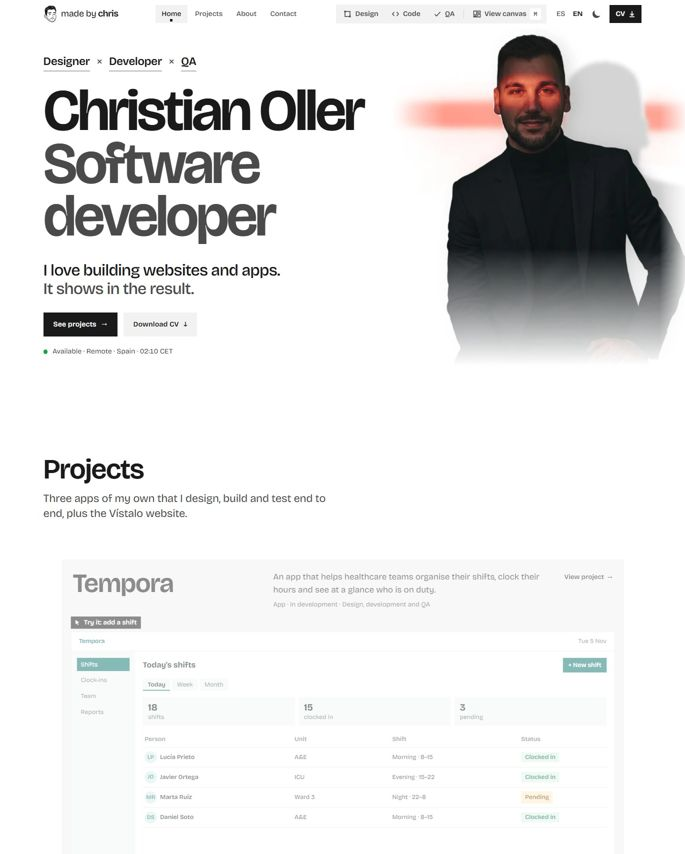
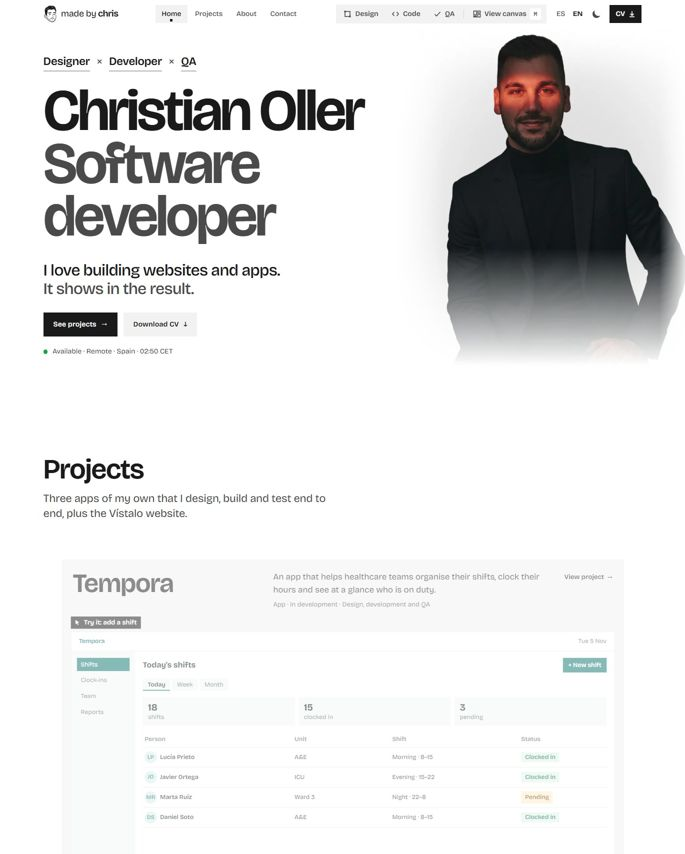
feat: light hero photo on soft gray, without wall stripe or shadow

diff --git a/docs/referencias/roadmap-prototipo-def.md b/docs/referencias/roadmap-prototipo-def.md
@@ -23,7 +23,7 @@
 | E3 · Momentos firma | Hecho (19 nov) |
 | E4 · Páginas | Hecho (19 nov). Los casos esperan tu contenido real |
 | **E5 · Móvil y pulido** | **Hecho** (19 nov), a falta de tu visto bueno a la rúbrica |
-| **Ajustes de diseño** | **En curso** (20 nov): hero y barra hechos, a falta de tu visto bueno |
+| **Ajustes de diseño** | **En curso** (20 nov): hero y barra aprobados; la foto clara sobre gris, hecha y a falta de tu visto bueno |
 | Fase técnica | Pendiente |
 | Lanzamiento | Pendiente |
 
@@ -196,8 +196,8 @@ trayectoria ha vuelto y no quedan ni la letra a mano ni el azul.
         claro sobre la chaqueta). "Christian Oller" va en tinta normal, porque pasa por la luz
         roja y la diferencia lo teñía de azul. En móvil las dos líneas caen sobre la chaqueta y
         van las dos en diferencia.
-      - Cómo se genera `card-light.jpg` (hay que repetirlo si cambia la foto), en
-        `.taste-skill/recorte/`:
+      - Cómo se generaba `card-light.jpg` hasta el 20 nov (desde D24 se hace con `luz-gris.cjs`,
+        ver "Ajustes de diseño"), en `.taste-skill/recorte/`:
         1. `person.swift` saca la máscara de la persona con la segmentación de macOS.
         2. `luz.cjs` pone la pared en blanco, conserva la franja roja (el exceso de rojo sobre
            la pared), redibuja la sombra con la propia silueta (en la foto es solo un 5 % más
@@ -664,7 +664,7 @@ trayectoria ha vuelto y no quedan ni la letra a mano ni el azul.
 El 20 nov, en vez de cerrar el diseño, Christian pidió cambios, empezando por la home. Se trabajan
 igual: un punto por parada y la casilla se marca con su visto bueno.
 
-- [ ] **Hero sin texto encima de la foto** (D22; hecho el 20 nov, pendiente de tu visto bueno):
+- [x] **Hero sin texto encima de la foto** (D22; hecho y aprobado el 20 nov):
   - Antes de tocar nada se hizo una maqueta (CSS inyectado sobre la web construida) y la aprobaste.
   - Escritorio: el texto en su columna (hasta el 54 % del ancho del contenido) y la foto en la suya
     (desde el 58 %; antes, el 55,5 %). Titular de 150 a 118 px a 1440 (`--d` de 12,6 a 9,8 cqi) y
@@ -678,7 +678,7 @@ igual: un punto por parada y la casilla se marca con su visto bueno.
   - Comprobado a 1920, 1440, 1280, 1024, 768, 390 y 320 px, en claro y oscuro: el texto acaba antes
     de la foto (8 px de aire a 768, donde el borde de la foto ya es transparente, y unos 45 px en
     escritorio) y nada desborda. Capturas en `.taste-skill/mock-hero/verify/`.
-- [ ] **Barra dentro de la página** (D23; hecho el 20 nov, pendiente de tu visto bueno):
+- [x] **Barra dentro de la página** (D23; hecho y aprobado el 20 nov):
   - La barra es la primera fila del artboard: papel, el ancho del frame (deja ver el lienzo a los
     lados) y su contenido alineado con el de las secciones (82rem). La página actual del menú va
     sobre un paso de tinte y el menú de móvil, sobre papel.
@@ -705,6 +705,29 @@ igual: un punto por parada y la casilla se marca con su visto bueno.
   - **Tests de Playwright desfasados** (no por este cambio): `tests/example.spec.ts` viene de `main` y
     falla en 7 de 12 casos (títulos con "|", el id `#mobile-menu-btn` y dos `<nav>` en la home por la
     web de ejemplo). Se rehacen en la fase técnica.
+- [ ] **Foto clara sin sombra ni franja, sobre gris** (D24; hecha el 20 nov, pendiente de tu visto
+  bueno):
+  - Pediste quitar en modo claro la sombra y la línea roja de la pared, y un fondo algo más gris.
+  - `card-light.jpg` es ahora tu figura (la de `card.jpg`) sobre un gris claro, más hondo detrás de
+    los hombros (#e0e0e0) y que se abre a blanco hacia arriba y hacia los lados. Arriba, donde la
+    foto asoma bajo la barra, ya es blanco: no hay línea. Las máscaras del hero son las mismas.
+  - La luz roja de la cara se queda (es de la foto) y el texto no cambia de color.
+  - En el borde de la figura se cambia la pared vieja por el gris, así no queda cerco oscuro ni
+    rojizo (en la oreja, a la altura de la franja, se notaba).
+  - Cómo se genera, en Windows o en macOS, desde la raíz:
+    1. `mascara-diferencia.cjs` recuperó tu máscara de persona comparando el `card-light.jpg`
+       anterior con `card.jpg` (allí la figura iba pegada tal cual). Está guardada en
+       `docs/imgs/card-mascara.png`, así que para esta foto ya no hace falta `person.swift`.
+    2. `node .taste-skill/recorte/luz-gris.cjs src/assets/images/card.jpg docs/imgs/card-mascara.png src/assets/images/card-light.jpg`
+       monta la versión clara. El gris se ajusta con variables de entorno; los valores por defecto
+       son los de ahora.
+  - Probadas antes cinco variantes en la página: un gris uniforme llegaba a los bordes del artboard
+    en móvil y el frame se confundía con el lienzo; uno concentrado detrás del cuerpo, no.
+  - Comprobado a 1920, 1440, 1280, 1024, 768, 390 y 320 px: justo bajo la barra la foto es papel
+    (254 de 255) en todos los anchos. El oscuro no cambia. Capturas en
+    `.taste-skill/mock-hero/verify-gray/`.
+  - Miniaturas del lienzo: repetidas las dos de la home en claro (`es-home-light.jpg` y
+    `en-home-light.jpg`). Las alturas no cambian.
 
 ## Fase técnica (después del 10 de diseño)
 

diff --git a/docs/referencias/plan-diseno-awwwards.md b/docs/referencias/plan-diseno-awwwards.md
@@ -696,7 +696,8 @@ Detalle completo en el [informe, sección B2](informe-eloi-cotonat.md#b2-dónde-
 | D20 | Oficio del titular (18 nov) | "Software developer" en lugar de "Frontend developer": ya no hace solo webs ni solo frontend. Los tres oficios, "Diseñador × Desarrollador × QA" (viene de su portfolio anterior), van encima del nombre y cada uno activa su lente. |
 | D22 | Texto y foto del hero, separados (20 nov) | Christian no quiere letras encima de la foto. En escritorio el texto (oficios, nombre, oficio, frase y botones) vive en su columna, hasta el 54 % del ancho, y la foto en la suya, desde el 58 %. El titular baja de unos 150 px a 118 px a 1440 y "Software developer" va en dos líneas ("Software" / "developer"): en una sola tendría que bajar a 85 px. En móvil la foto sigue arriba y el texto empieza donde ella ya es transparente. Sustituye al "oficio que cruza la chaqueta" de D21; la foto y los colores no cambian. |
 | D23 | Barra dentro de la página (20 nov) | La barra deja de ser una franja aparte en color de lienzo: es la primera fila del artboard (papel, el ancho del frame, contenido alineado con las secciones) y se queda quieta en el paneo, como antes. El nombre del frame ya no va encima del artboard: sale en la barra de estado de las lentes, en el lienzo (M) y en la 404, donde el frame es lo que falta. El lienzo sigue a la vista en los márgenes de los lados, en el paneo y en "Ver lienzo". Cambia §3.1 ("nombre del frame siempre visible") y §5.1 ("color de lienzo"). |
-| D21 | Retrato del hero (18–19 nov) | Sustituye a "capa seleccionada en su rectángulo" (§3.5 y §5.2), que Christian vio como "una foto plana ahí tirada". La foto es la de la luz roja **en los dos modos** y va fundida en el fondo, sin caja ni panel, como en la página "nosotros" de Vístalo. En oscuro, la foto tal cual (`card.jpg`) se desvanece en el papel oscuro. En claro, el hero es claro y se usa una **versión "de día" de esa misma foto** (`card-light.jpg`): la pared pasa a blanco y se conservan la franja de luz roja y la sombra en la pared, que son las que evitan que la figura quede "de pegote". Descartado por él, en este orden: hero oscuro también en claro; una foto distinta por modo (`profile.jpg` en claro); panel oscuro con borde recto en claro; la figura recortada sola sobre blanco ("casi", pero "pegote"). |
+| D21 | Retrato del hero (18–19 nov) | Sustituye a "capa seleccionada en su rectángulo" (§3.5 y §5.2), que Christian vio como "una foto plana ahí tirada". La foto es la de la luz roja **en los dos modos** y va fundida en el fondo, sin caja ni panel, como en la página "nosotros" de Vístalo. En oscuro, la foto tal cual (`card.jpg`) se desvanece en el papel oscuro. En claro, el hero es claro y se usa una **versión "de día" de esa misma foto** (`card-light.jpg`): la pared pasa a blanco y se conservan la franja de luz roja y la sombra en la pared, que son las que evitan que la figura quede "de pegote". Descartado por él, en este orden: hero oscuro también en claro; una foto distinta por modo (`profile.jpg` en claro); panel oscuro con borde recto en claro; la figura recortada sola sobre blanco ("casi", pero "pegote"). **Cambiado el 20 nov (D24)**: la versión clara ya no lleva franja ni sombra; va sobre gris. |
+| D24 | Foto clara del hero, sobre gris (20 nov) | Sustituye a la versión "de día" de D21. Christian quiso quitar la sombra y la franja de luz roja de la pared, y un fondo algo más gris que el blanco. `card-light.jpg` es ahora la figura de `card.jpg` sobre un gris claro (#e0e0e0 en lo más hondo, detrás de los hombros) que se abre a blanco hacia arriba y hacia los lados. Arriba, donde la foto asoma bajo la barra, ya es papel, así que no hay corte, y las máscaras del hero no cambian. El gris hace de pared: es lo que evita el "pegote" de la figura sola sobre blanco. La luz roja de la cara se queda (es de la foto) y el texto no cambia de color, porque desde D22 no pisa la foto. |
 
 ### Abierta
 

diff --git a/CLAUDE.md b/CLAUDE.md
@@ -8,7 +8,7 @@ Claude necesita saber al abrir el proyecto en cualquier equipo. El detalle vive 
 1. `docs/referencias/estado-actual.md`: dónde está el trabajo hoy y qué toca ahora.
 2. `docs/referencias/roadmap-prototipo-def.md`: el orden de trabajo, con casillas y una tabla de
    estado. Es la fuente de verdad de lo hecho y lo pendiente.
-3. `docs/referencias/plan-diseno-awwwards.md`: el plan de diseño y las decisiones (D1–D21). Donde
+3. `docs/referencias/plan-diseno-awwwards.md`: el plan de diseño y las decisiones (D1–D24). Donde
    contradiga a `concepto.md`, manda el plan.
 
 ## Cómo trabajamos (decisiones de Christian)
@@ -72,3 +72,5 @@ sección B4 de `docs/referencias/informe-eloi-cotonat.md`.
   `cdp.mjs` se pasa como URL de archivo (`file:///C:/…`); el recorte usa sharp.
 - **Solo en macOS**: `.taste-skill/recorte/person.swift` (máscara de persona con Vision) y los
   comandos `sips`. En Windows no existen; si hace falta recortar otra foto, buscar alternativa.
+  La foto clara del hero ya no depende de ellos: `.taste-skill/recorte/luz-gris.cjs` la monta con
+  sharp a partir de `card.jpg` y de su máscara guardada (`docs/imgs/card-mascara.png`).
